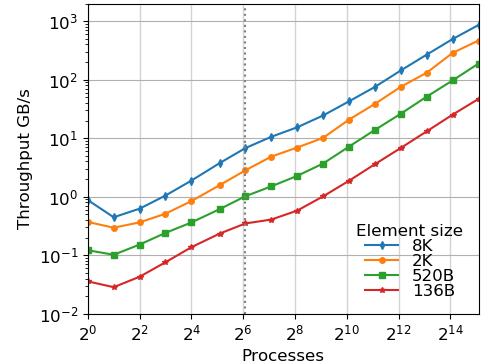
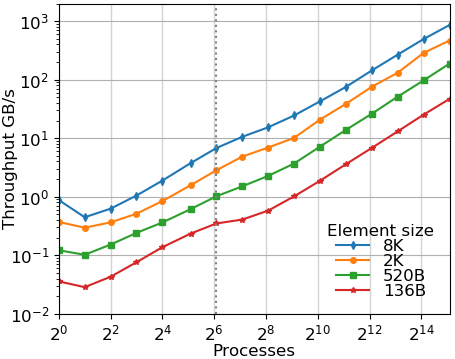
UPCXX: Wrap and trim figure, squeeze space

Changed region(s): [[0.0, 0.0, 1.0, 1.0]]

diff --git a/projects/2.3.1-PMR/2.3.1.14-UPCxx-GASNet/2.3.1.14-UPCxx.tex b/projects/2.3.1-PMR/2.3.1.14-UPCxx-GASNet/2.3.1.14-UPCxx.tex
@@ -99,15 +99,16 @@ Figure~\ref{fig:dht} illustrates the benefits of the UPC++ model
 in a weak scaling study up to 34,816 processes on the KNL partition of NERSC's Cori.
 
 
-\begin{figure}[htb]
-\centering
+\begin{wrapfigure}[17]{L}{.44\linewidth}
+  \vspace{-1.5em}
+  \centering
       \includegraphics[scale=0.70]{projects/2.3.1-PMR/2.3.1.14-UPCxx-GASNet/all-cori-knl-out-inserts-wait.png}
-  \caption{Weak scaling of distributed hash table insertion on the KNL partition of NERSC's Cori platform. The dotted line represents the processes in one node.}
+  \caption{Weak scaling of distributed hash table insertion on the KNL partition of NERSC's Cori platform. The dotted line represents one node.}
   \label{fig:dht}
-\end{figure}
+\end{wrapfigure}
 
 
-
+\vspace{-2em}
 \paragraph{Recent Progress}
 
 The most notable work in the past year has been in three areas:
@@ -137,10 +138,10 @@ been valuable to both the UPC++ team and our stakeholders to agree upon design
 in advance of implementation.
 
 \textbf{3. Productivity and Performance.}
-With the core API specification and implementation of UPC++ complete, we have
+Having completed the core specification and implementation of UPC++, we have
 shifted focus toward addressing improvements to productivity and performance,
-especially in response to feedback from our stakeholders.  The most significant
-example of this is addition of support for non-trivial serialization of
+especially in response to stakeholder feedback.  The most significant
+example is addition of support for non-trivial serialization of
 user-defined types, providing concise syntax for the common cases and
 robust, extensible mechanisms for more complex ones.
 
@@ -157,7 +158,7 @@ by leveraging the parallel efforts in GASNet-EX.
 
 \textbf{2. Productivity and Performance.}
 With the help of our stakeholders, we will continue to identify and address
-portions of the UPC++ implementation where performance tuning is most needed
+portions of UPC++ where performance tuning is most needed
 and/or beneficial.  Similarly, we will continue to work with stakeholders to
 identify and implement features which improve productivity.
 
